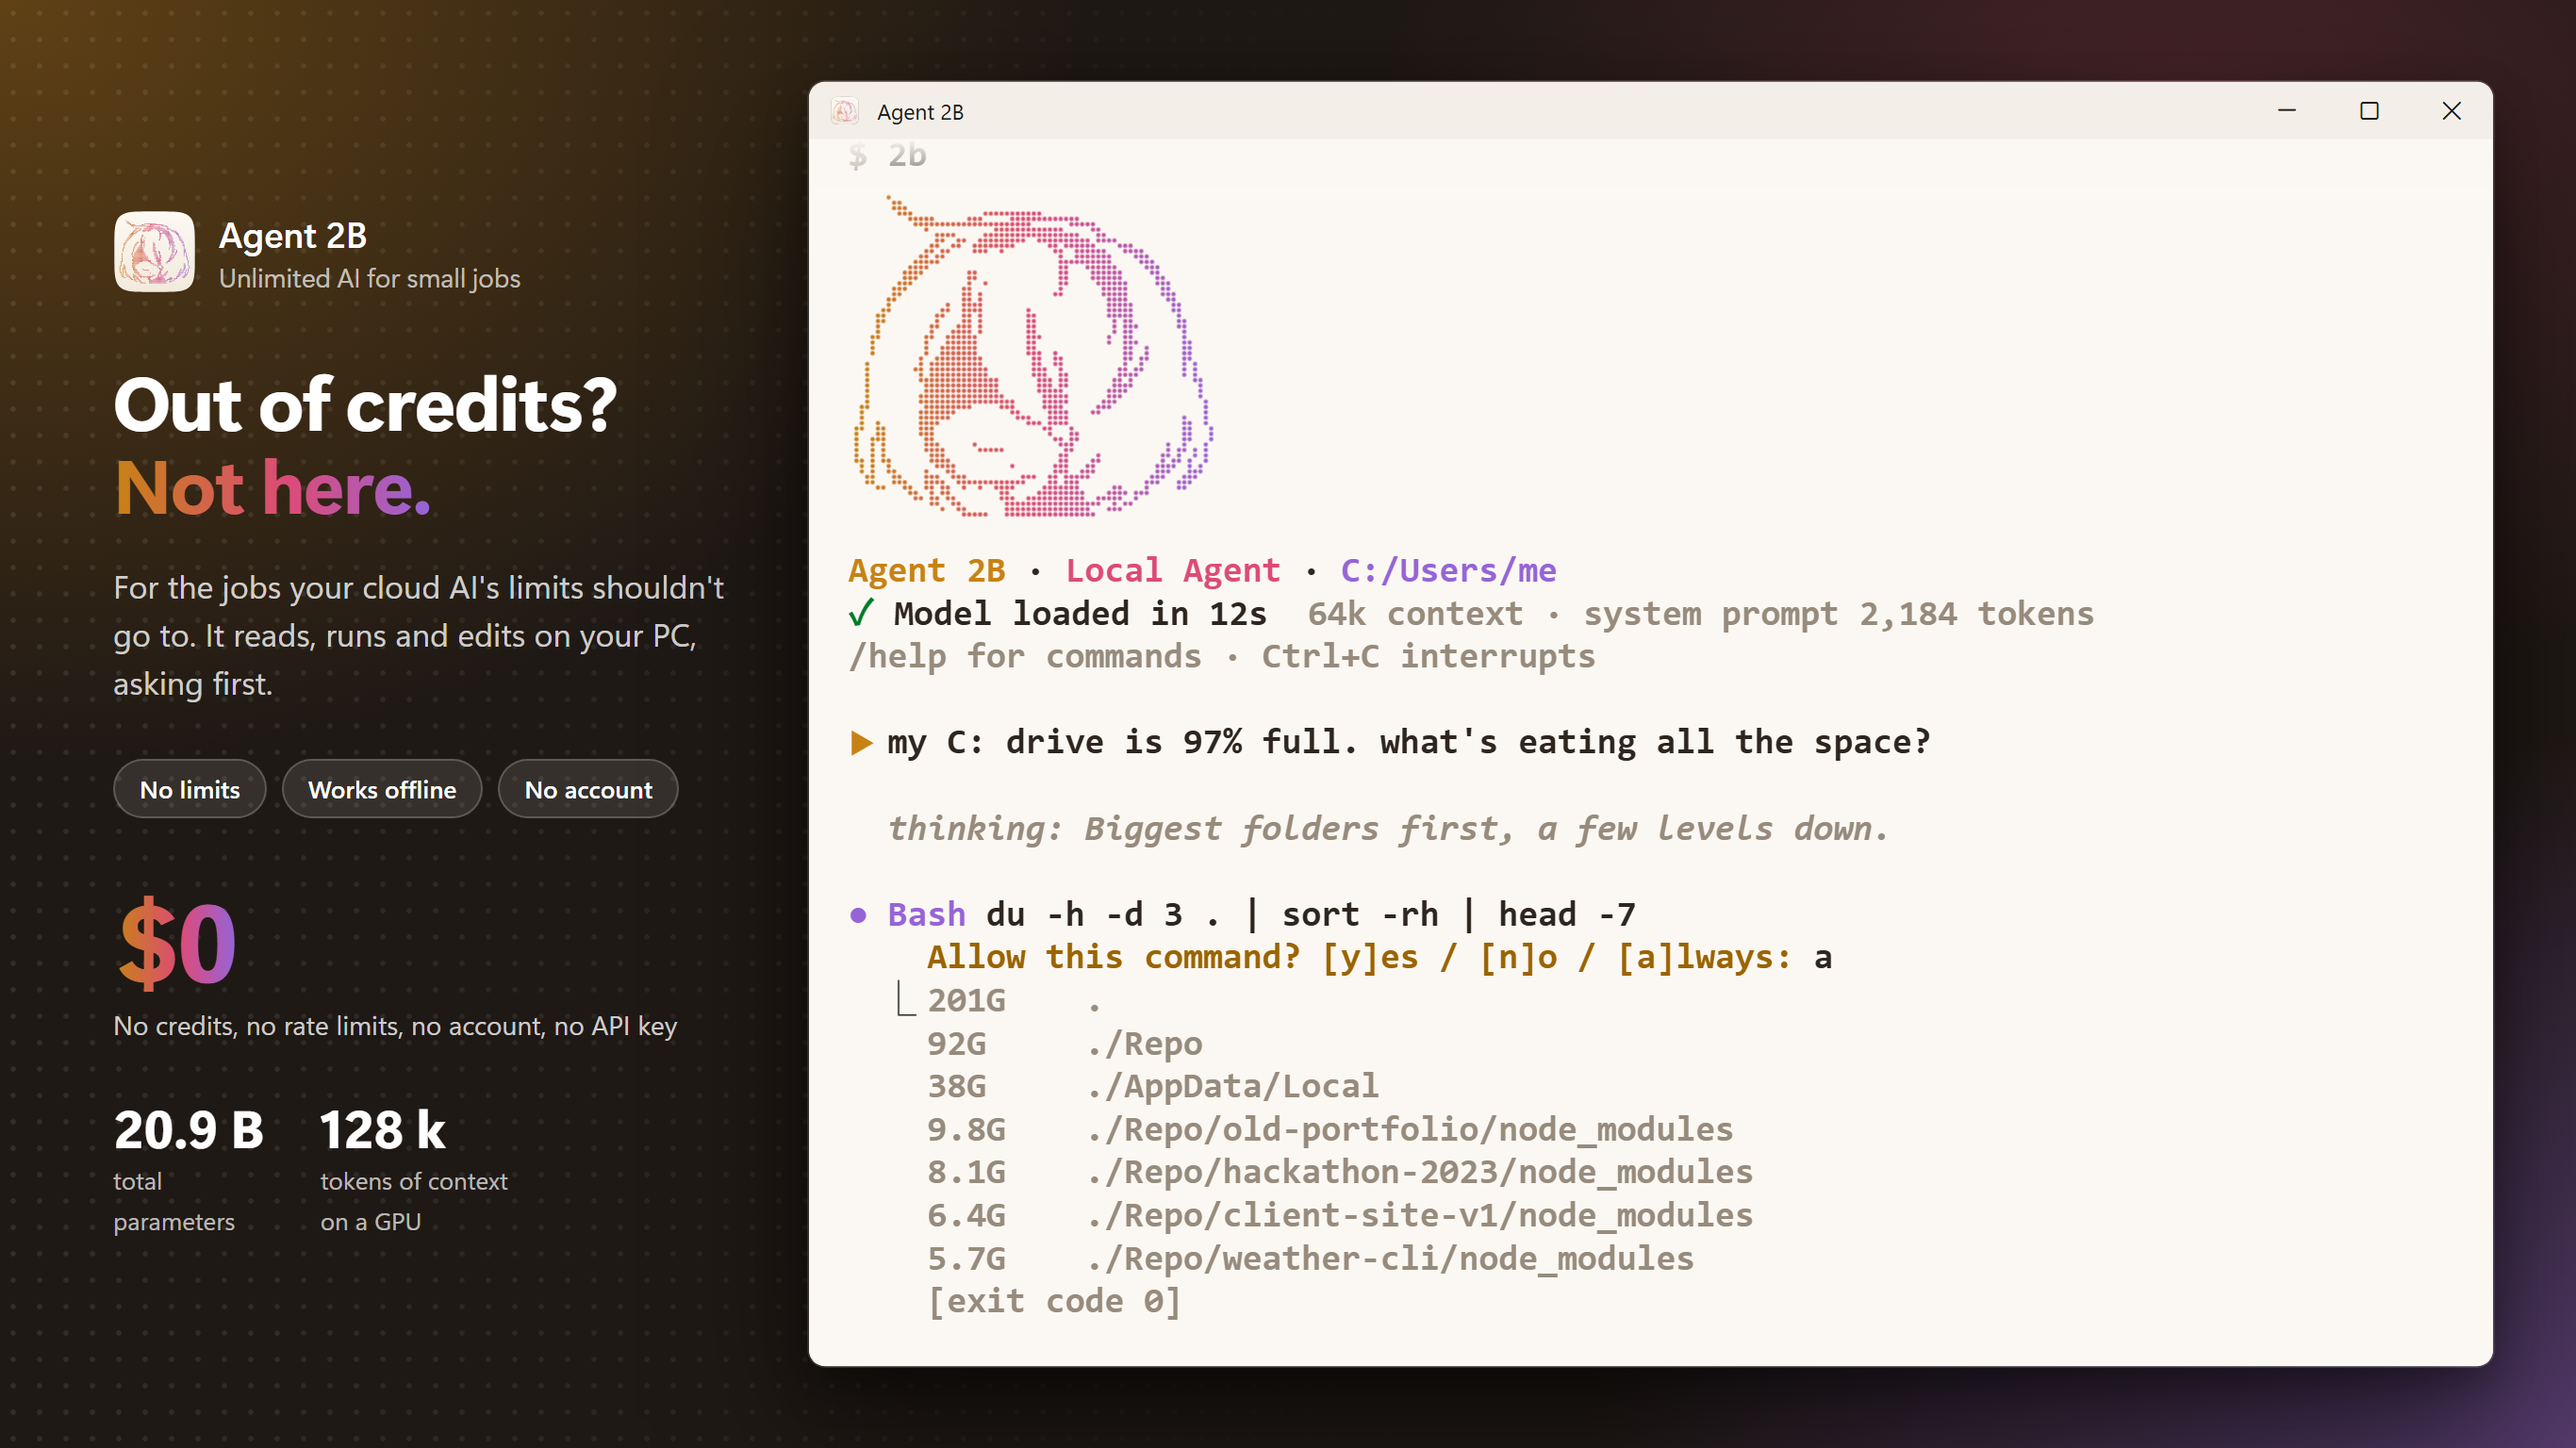
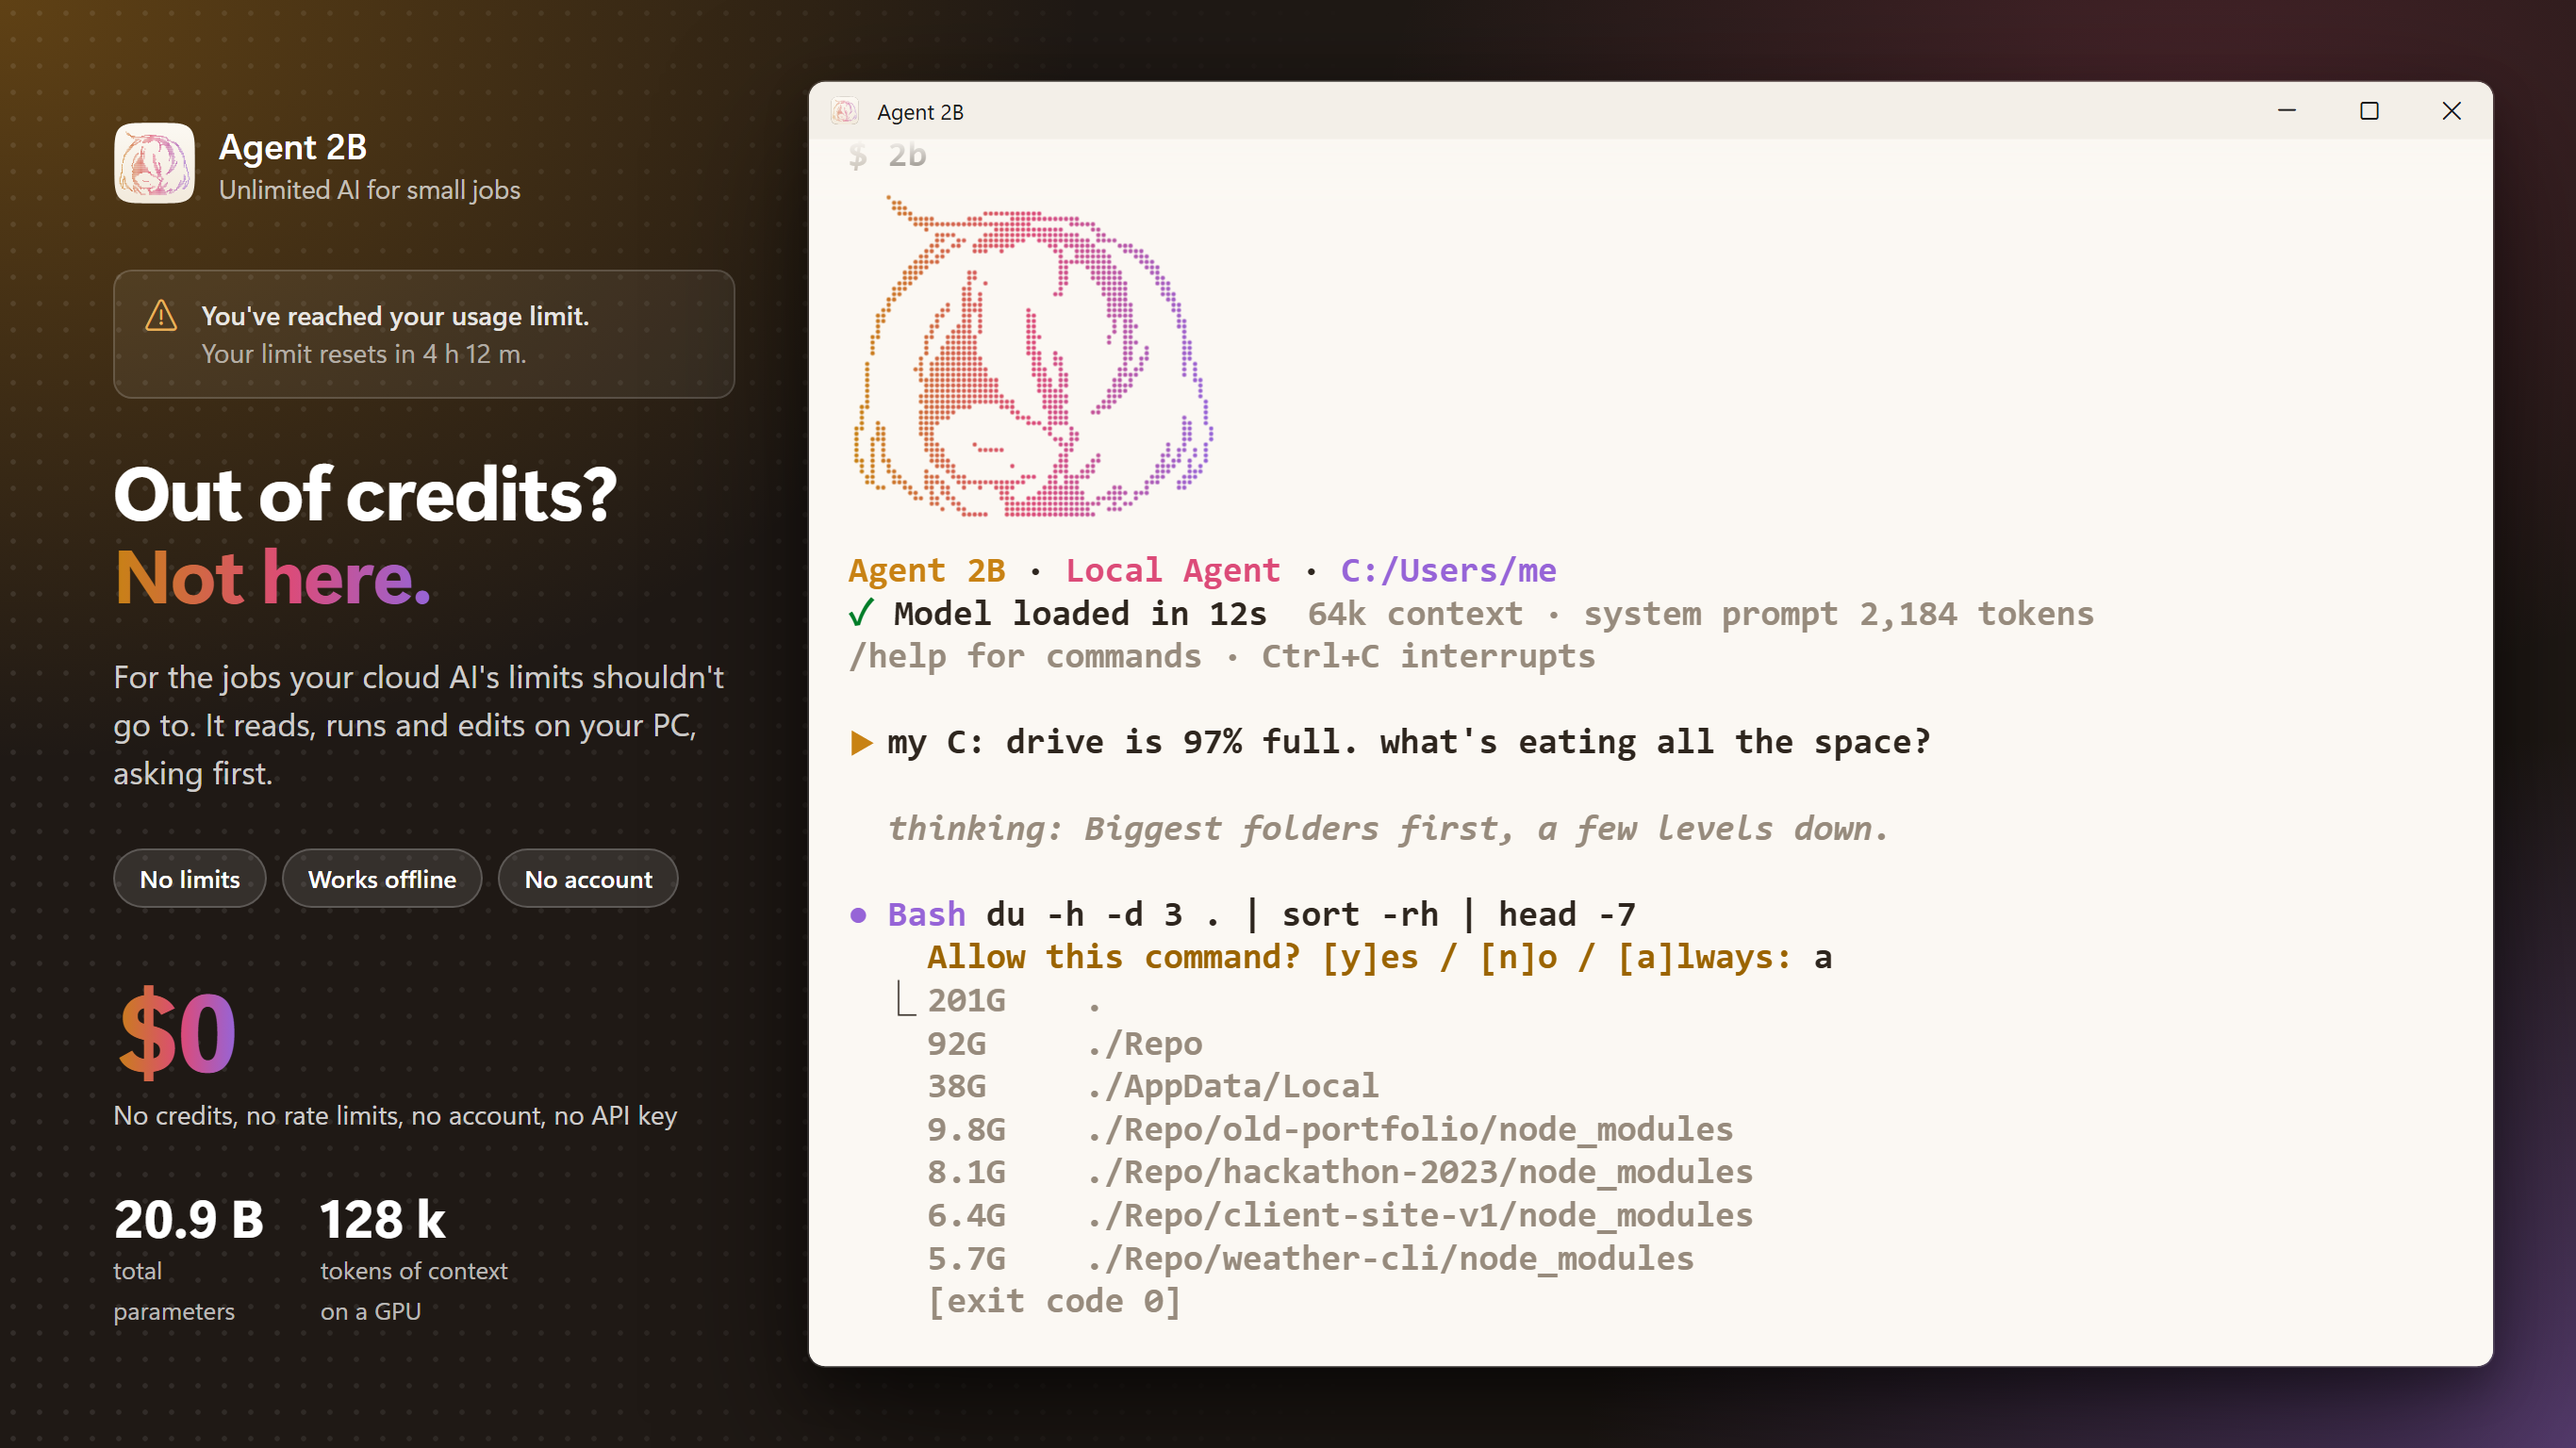
Promo screenshot: a cloud AI's usage-limit notice above the headline

Changed region(s): [[0.0311, 0.0625, 0.28, 0.5625], [0.0311, 0.5938, 0.2489, 0.9062]]

diff --git a/store-listing/generator/shots.html b/store-listing/generator/shots.html
@@ -46,6 +46,14 @@
     background: linear-gradient(#2a211c, #2a211c) padding-box, var(--brand) border-box;
     background-attachment: scroll, fixed; background-size: auto, 330px 100%; background-position: 0 0, 60px 0;
   }
+  /* #promo: the moment it's for, a cloud AI's usage-limit notice, generic (no product's look or words), dimmed. */
+  .limit {
+    display: flex; gap: 12px; align-items: flex-start; margin-bottom: 26px; padding: 13px 16px; border-radius: 10px;
+    background: rgba(255, 255, 255, 0.06); border: 1px solid rgba(255, 255, 255, 0.16);
+    font: 400 14px/1.45 "Segoe UI Variable Text", "Segoe UI", sans-serif; color: rgba(255, 255, 255, 0.62);
+  }
+  .limit i { font: normal 18px/1.2 "Segoe Fluent Icons", "Segoe MDL2 Assets"; color: #e8b25a; }
+  .limit b { display: block; font-weight: 600; color: rgba(255, 255, 255, 0.88); }
   .facts span {
     padding: 6px 13px; border-radius: 999px; font: 600 13px "Segoe UI Variable Text", "Segoe UI", sans-serif;
     background: rgba(255, 255, 255, 0.1); border: 1px solid rgba(255, 255, 255, 0.2);
@@ -70,6 +78,7 @@
 <body>
   <div class="caption">
     <div class="app"><img src="../../src/app/icon.svg" alt=""><span>Agent 2B<small>Unlimited AI for small jobs</small></span></div>
+    <div id="limit"></div>
     <h1 id="title"></h1>
     <p id="text"></p>
     <div class="facts" id="facts"></div>
@@ -119,6 +128,7 @@ const FACTS = ["No limits", "Works offline", "No account"];
 // page, at 2x).
 const SHOTS = {
   promo: {
+    limit: true,
     title: 'Out of credits? <span class="brand">Not here.</span>',
     text: "For the jobs your cloud AI's limits shouldn't go to. It reads, runs and edits on your PC, asking first.",
     numbers: NUMBERS,
@@ -139,6 +149,8 @@ const SHOTS = {
 
 const shot = SHOTS[location.hash.slice(1)];
 if (!shot) throw new Error("Unknown shot " + location.hash);
+document.getElementById("limit").outerHTML = shot.limit
+  ? `<div class="limit"><i>&#xE7BA;</i><span><b>You've reached your usage limit.</b>Your limit resets in 4 h 12 m.</span></div>` : "";
 document.getElementById("title").innerHTML = shot.title;
 document.getElementById("text").textContent = shot.text || "";
 if (!shot.text) document.getElementById("text").remove();
